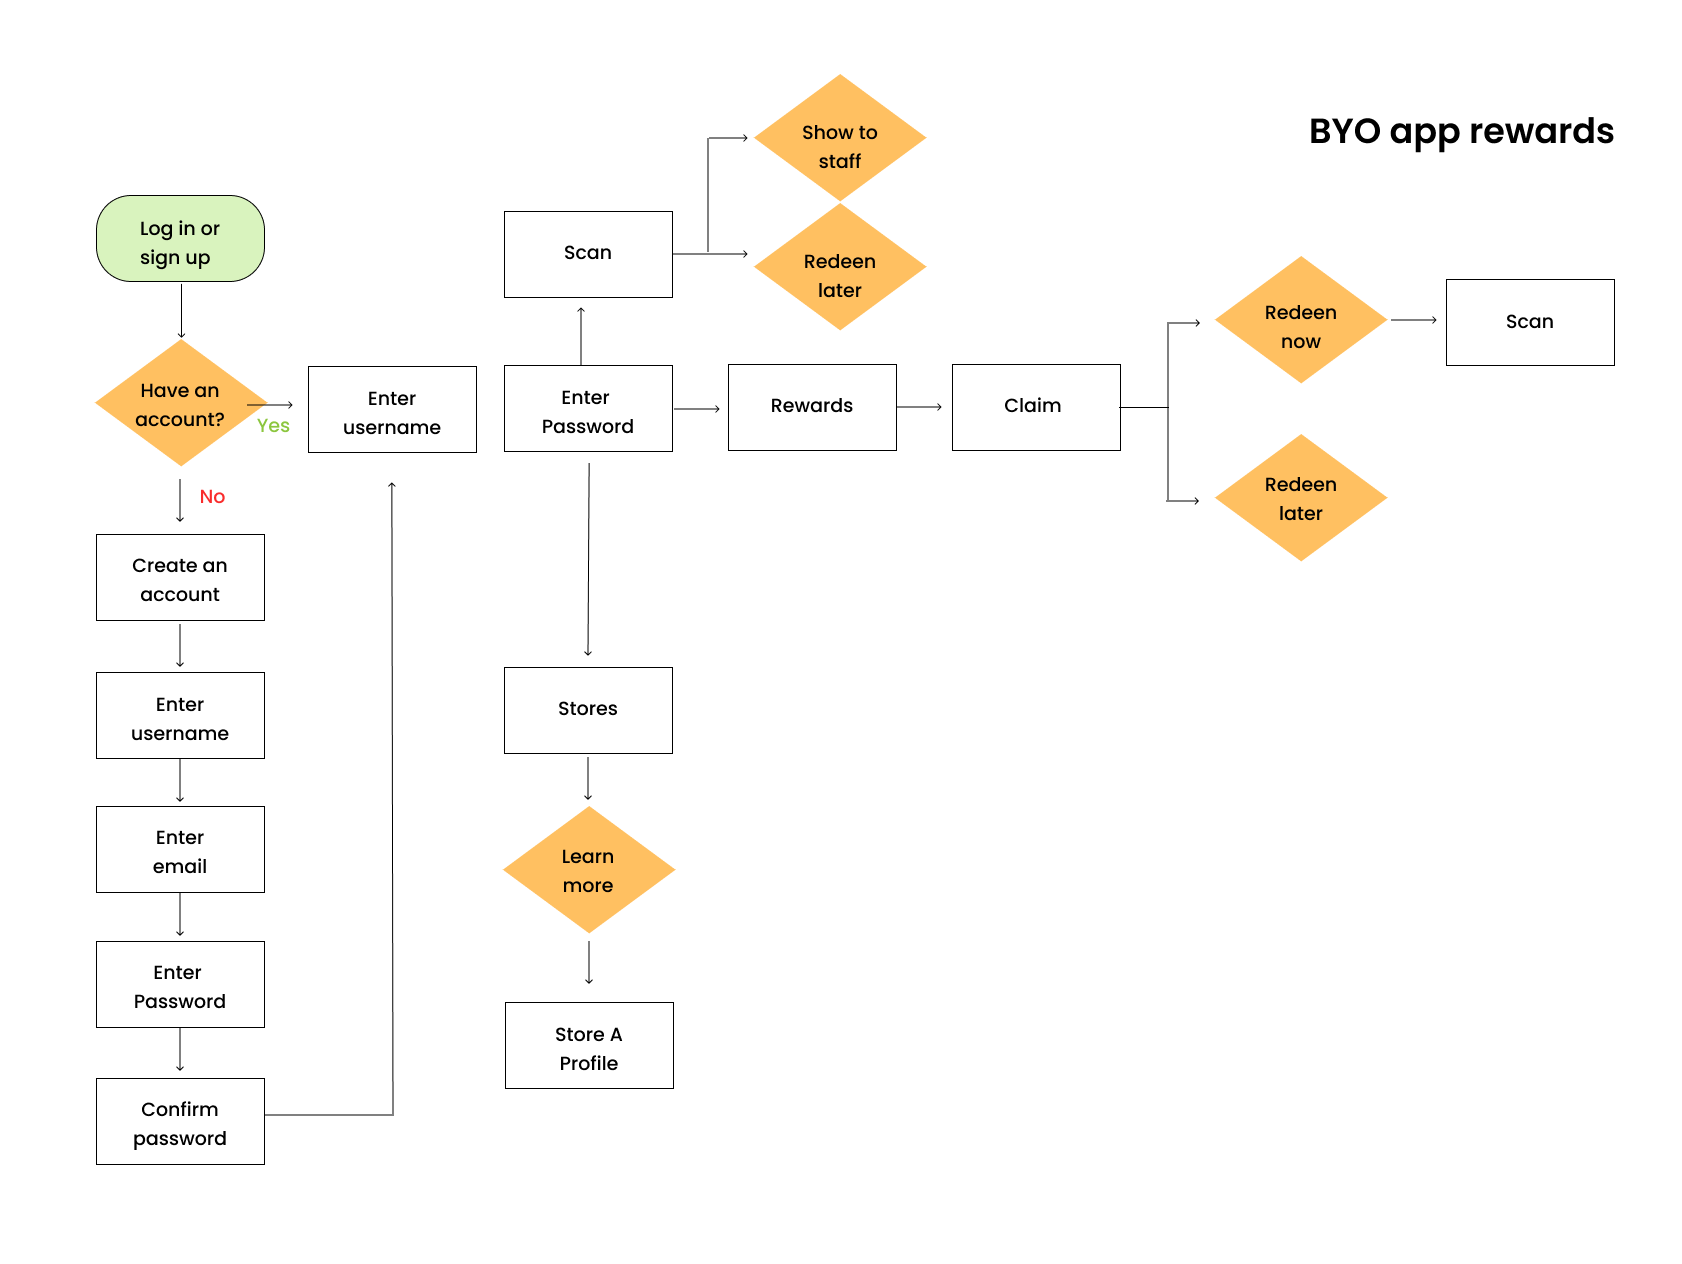
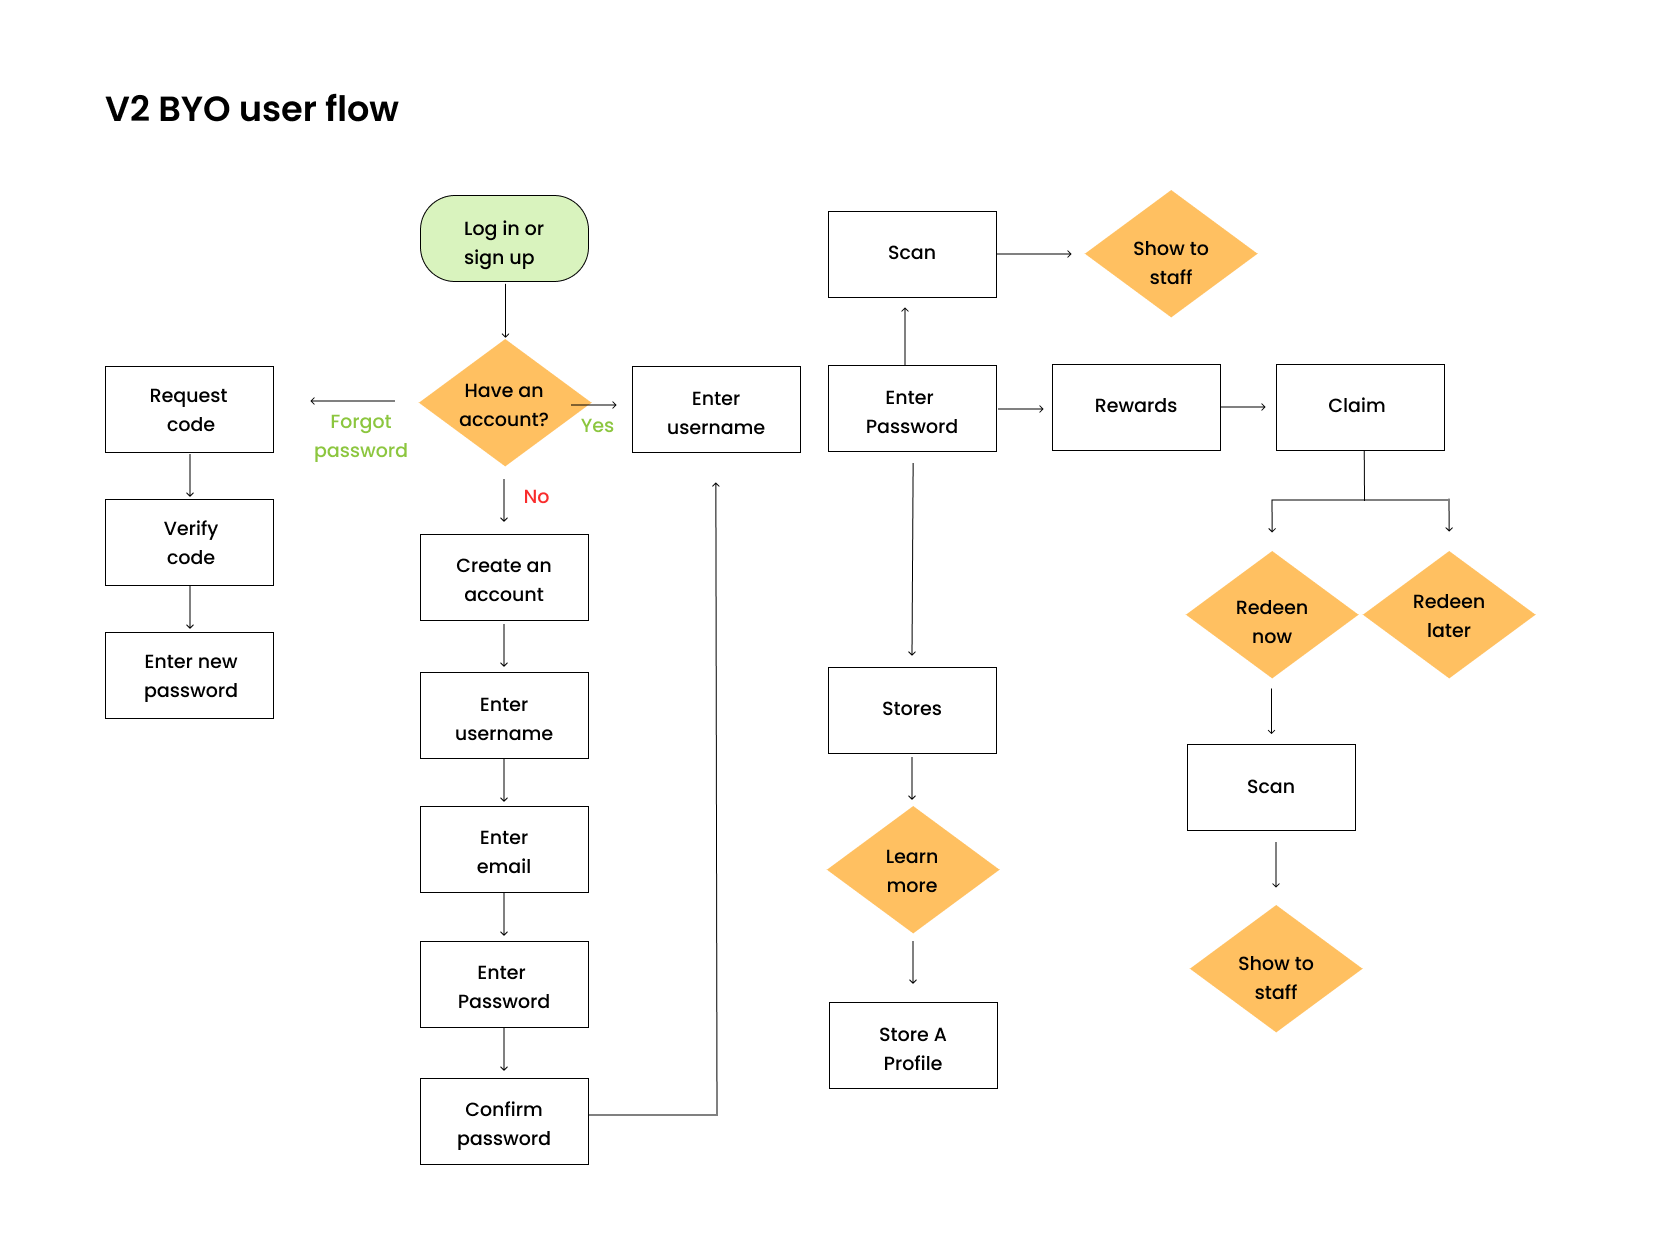
ll

diff --git a/project2.html b/project2.html
@@ -310,10 +310,18 @@
 
             <p class="minus-top"> The floating button features allows users to click the scan button on any page of the app. The built-in scan page allows users to scan directly on the page without transitioning to the camera app. </p>
 
+            <figure>
+            <img src = "img/flow2.png" alt = "user flow for scanning" width = "800">
+            <figcaption> First scanning iteration </figcaption>
+          </figure>
+
+          <p> In the early stages of the scanning iteration, we were going to have a pop up page for when the scanning is unsuccessful so there is a visual consistency with the "successful scanning" pop up page. However, after discussing the user flow with my team, we came to the conclusion that this may be adding an extra step for users. We decided to add a transparent pop up message and red borders instead which would disappear after a few seconds and allow users to scan while the message is in display. </p>
+
           <figure>
             <img src = "img/flow.png" alt = "user flow for scanning" width = "800">
-            <figcaption> Floating button feature </figcaption>
+            <figcaption> Final scanning iteration </figcaption>
           </figure>
+
         </div>
       </div>
 
@@ -329,8 +337,7 @@
 
           <div class ="text-item1">
 
-            <p class ="minus-top"> Another challenge was trying to figure out the user flow in the initial stages of the protoype without actually doing 
-            formal user testing. As our app may be confusing, especially for first-time users, it was really important to consider usability testing for the next iteration, making sure that users could easily understand how to navigate through the app. </p>
+            <p class ="minus-top"> Another challenge was trying to figure out the user flow in the initial stages of the protoype without actually doing formal user testing. As our app may be confusing, especially for first-time users, it was really important to consider usability testing for the next iteration, making sure that users could easily understand how to navigate through the app. </p>
           </div>
         </div>
       </section> <!--Closing challenges-->
@@ -367,6 +374,26 @@
             </div>
           </div>
         </section> <!--Closing shop profiles section-->
+
+        <section id ="reward">
+
+          <div class="text-container">
+            <div class ="text-item">
+
+               <h3> Reward library </h3>
+             </div>
+
+              <div class ="text-item1">
+              <p class ="minus-top"> The reward library will consist of a reward-claiming page and reward-redeeming page. Users need to claim the reward and choose to redeem immediately or at a later time. The logistics of the reward library user flow is still in discussion.</p>
+
+              <figure>
+                <img src = "img/reward-flow.png" alt = "Shop profile flow" width = "800">
+                <figcaption> Reward library -claiming and redeeming process </figcaption>
+              </figure>
+
+            </div>
+          </div>
+        </section> <!--Closing reward library section-->
 
          <section id="v2-userflowchart">
 
